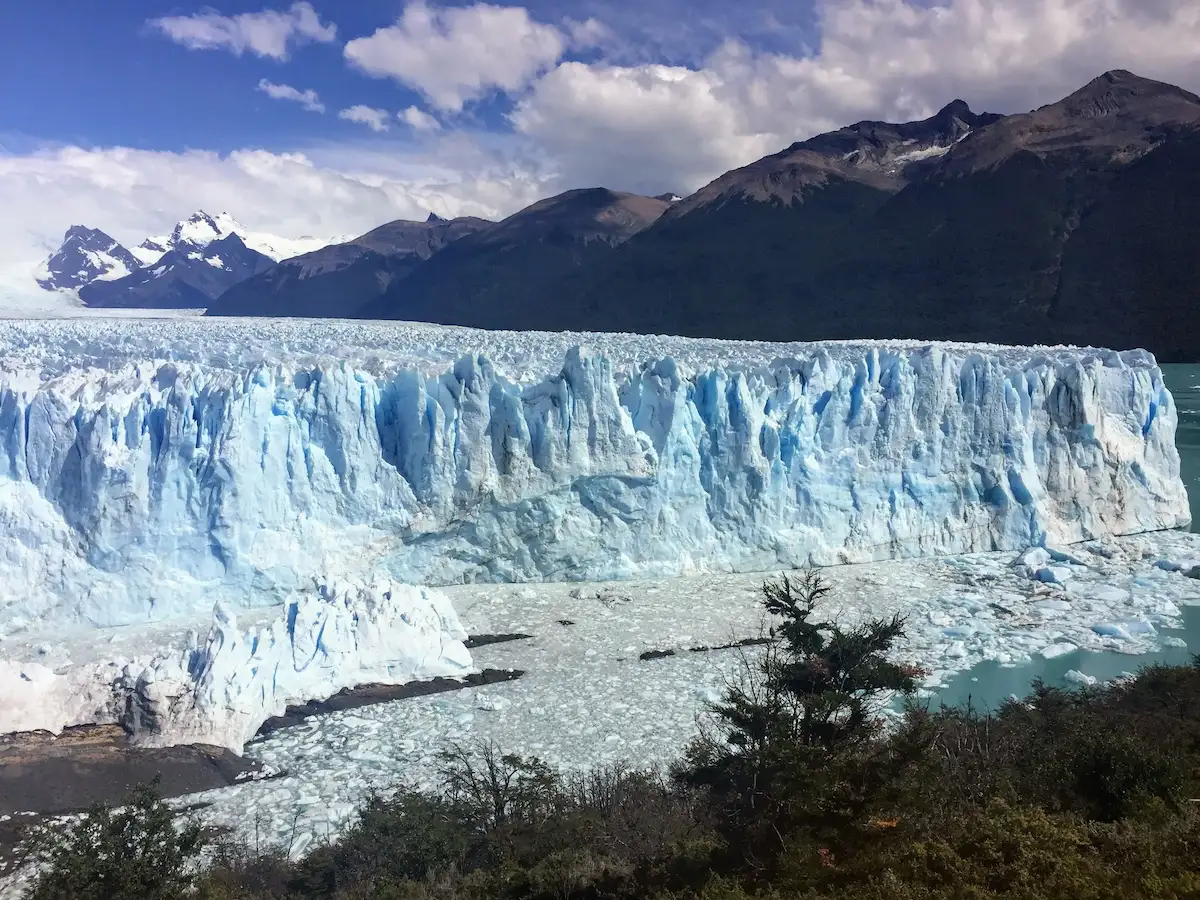
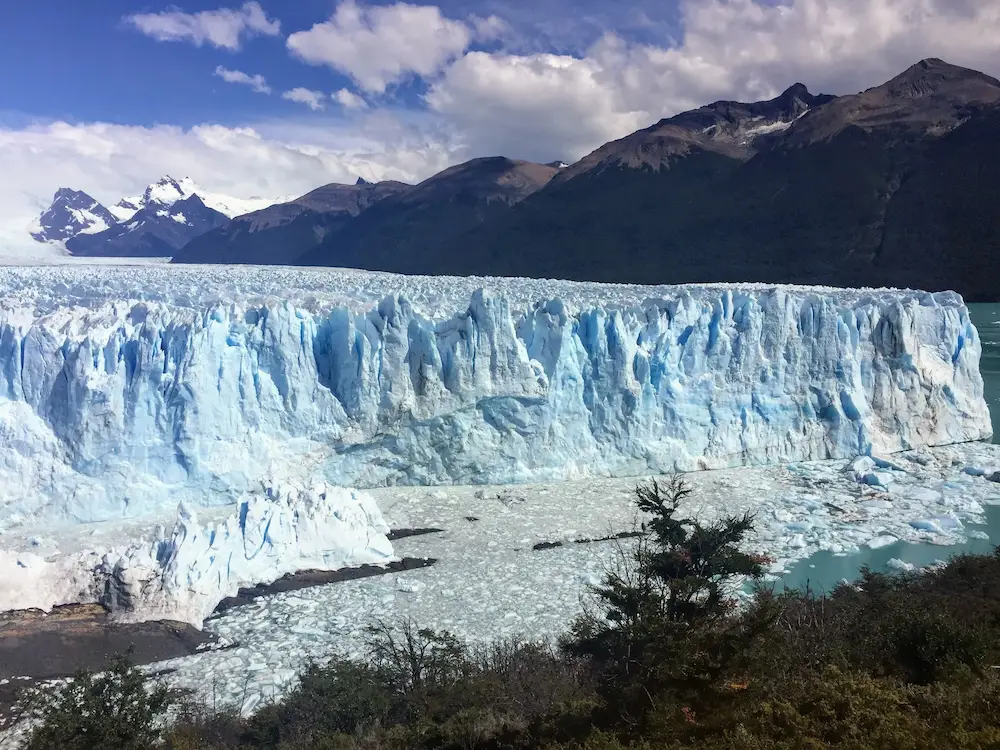
Add W03 place pageV2

diff --git a/styles/place.css b/styles/place.css
@@ -5,6 +5,7 @@
   --navy: #0b2545;
   --white: #ffffff;
   --bg: #f2f8fd;
+  --white-glass: #ffffffe0;   /* blanco al 88 % */
 }
 * { box-sizing: border-box; }
 body {
@@ -63,7 +64,7 @@ footer p { margin: .2rem 0; }
   .hero img { border-radius: 0; min-height: 450px; object-fit: cover; }
 
   .data, .weather {
-    background: rgba(255, 255, 255, .88);
+    background: var(--white-glass);
     border: none;
     border-radius: 0;
     padding: 0 0 1rem;
